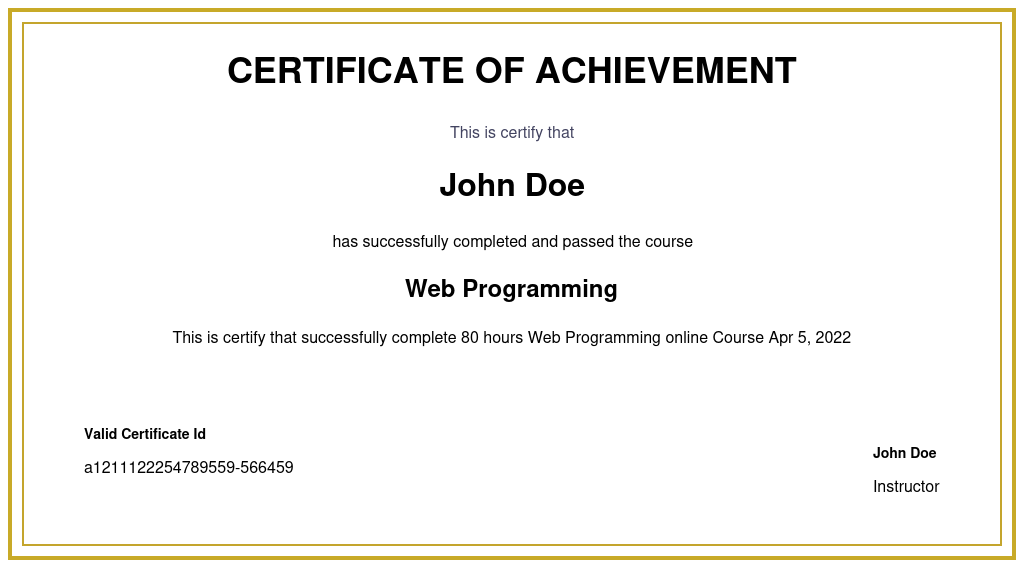
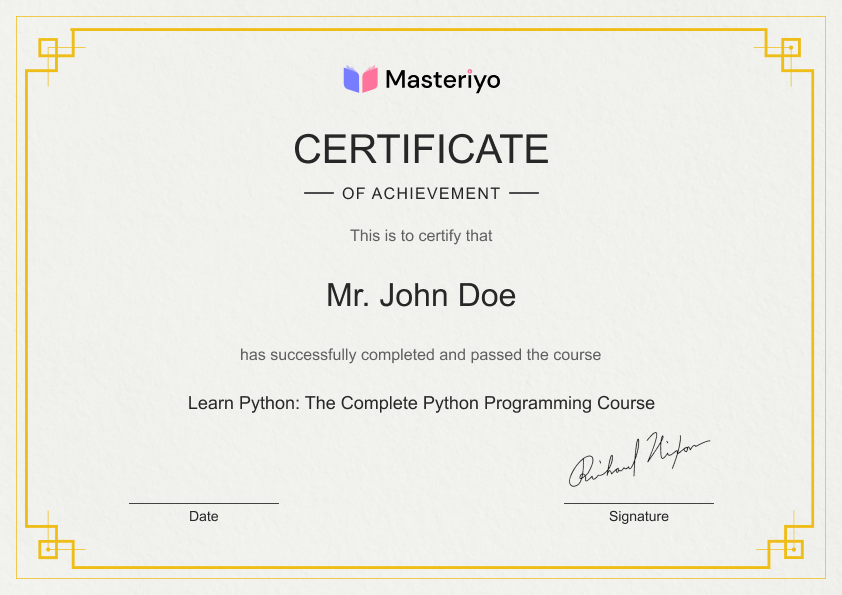
Template refinement

diff --git a/samples/simple-one/content.html b/samples/simple-one/content.html
@@ -1,24 +1,81 @@
-<!-- wp:masteriyo/certificate {"blockCSS":"","backgroundImageURL":"{{masteriyo_landscape_background_image_url}}","backgroundImageID":{{masteriyo_landscape_background_image_id}},"containerWidth":{"value":85,"unit":"%"},"paddingTop":{"value":90,"unit":"px"},"pageSize":"Letter","pageOrientation":"L"} -->
+<!-- wp:masteriyo/certificate {"backgroundImageURL":"{{masteriyo_a4_portrait_background_image_url}}","backgroundImageID":{{masteriyo_portrait_background_image_id}},"containerWidth":{"value":80,"unit":"%"},"paddingTop":{"value":100,"unit":"px"},"pageSize":"A4","pageOrientation":"P"} -->
 <div id="certificate" class="certificate">
 	<div class="certificate-content-wrapper">
-		<!-- wp:paragraph {"align":"center","fontSize":"large"} -->
-		<p class="has-text-align-center has-large-font-size"><strong>CERTIFICATE OF COMPLETION</strong></p>
-		<!-- /wp:paragraph -->
-
-		<!-- wp:spacer {"height":"40px"} -->
-		<div style="height:40px" aria-hidden="true" class="wp-block-spacer"></div>
+		<!-- wp:spacer {"height":"80px"} -->
+		<div style="height:80px" aria-hidden="true" class="wp-block-spacer"></div>
 		<!-- /wp:spacer -->
 
-		<!-- wp:paragraph {"align":"center"} -->
-		<p class="has-text-align-center">This certificate is proudly presented to</p>
-		<!-- /wp:paragraph -->
+		<!-- wp:columns -->
+		<div class="wp-block-columns">
+			<!-- wp:column {"width":"25%"} -->
+			<div class="wp-block-column" style="flex-basis:25%"></div>
+			<!-- /wp:column -->
 
-		<!-- wp:spacer {"height":"40px"} -->
-		<div style="height:40px" aria-hidden="true" class="wp-block-spacer"></div>
+			<!-- wp:column {"verticalAlignment":"center","width":"50%"} -->
+			<div class="wp-block-column is-vertically-aligned-center" style="flex-basis:50%">
+				<!-- wp:image {"align":"center","id":610,"width":158,"height":30,"sizeSlug":"full","linkDestination":"none"} -->
+				<figure class="wp-block-image aligncenter size-full is-resized"><img
+						src="https://masteriyo.test/wp-content/uploads/2022/09/masteriy-logo-1.png" alt=""
+						class="wp-image-610" width="158" height="30" /></figure>
+				<!-- /wp:image -->
+			</div>
+			<!-- /wp:column -->
+
+			<!-- wp:column {"width":"25%"} -->
+			<div class="wp-block-column" style="flex-basis:25%"></div>
+			<!-- /wp:column -->
+		</div>
+		<!-- /wp:columns -->
+
+		<!-- wp:spacer {"height":"24px"} -->
+		<div style="height:24px" aria-hidden="true" class="wp-block-spacer"></div>
 		<!-- /wp:spacer -->
 
-		<!-- wp:masteriyo/student-name {"clientId":"bea2edb3","blockCSS":".masteriyo-student-name-block\u002d\u002dbea2edb3 { text-align: center; }\n.masteriyo-student-name-block\u002d\u002dbea2edb3 { font-size: 40px; }\n.masteriyo-student-name-block\u002d\u002dbea2edb3 { color: #000000; }","alignment":"center","fontSize":{"value":40,"unit":"px"},"textColor":"#000000"} -->
-		<div class="wp-block-masteriyo-student-name masteriyo-student-name-block--bea2edb3">{{masteriyo_student_name}}
+		<!-- wp:paragraph {"align":"center","style":{"typography":{"fontSize":"60px","letterSpacing":"-0.4%","fontStyle":"normal","fontWeight":"500","textTransform":"uppercase"},"color":{"text":"#272727"}}} -->
+		<p class="has-text-align-center has-text-color"
+			style="color:#272727;font-size:60px;font-style:normal;font-weight:500;text-transform:uppercase;letter-spacing:-0.4%">
+			Certificate</p>
+		<!-- /wp:paragraph -->
+
+		<!-- wp:spacer {"height":"4px"} -->
+		<div style="height:4px" aria-hidden="true" class="wp-block-spacer"></div>
+		<!-- /wp:spacer -->
+
+		<!-- wp:columns {"verticalAlignment":"center"} -->
+		<div class="wp-block-columns are-vertically-aligned-center">
+			<!-- wp:column {"verticalAlignment":"center","width":"25%"} -->
+			<div class="wp-block-column is-vertically-aligned-center" style="flex-basis:25%"></div>
+			<!-- /wp:column -->
+
+			<!-- wp:column {"verticalAlignment":"center","width":"50%"} -->
+			<div class="wp-block-column is-vertically-aligned-center" style="flex-basis:50%">
+				<!-- wp:paragraph {"align":"center","style":{"typography":{"textTransform":"uppercase","letterSpacing":"5px"},"color":{"text":"#272727"}},"fontSize":"medium"} -->
+				<p class="has-text-align-center has-text-color has-medium-font-size"
+					style="color:#272727;text-transform:uppercase;letter-spacing:5px">of achievement</p>
+				<!-- /wp:paragraph -->
+			</div>
+			<!-- /wp:column -->
+
+			<!-- wp:column {"verticalAlignment":"center","width":"25%"} -->
+			<div class="wp-block-column is-vertically-aligned-center" style="flex-basis:25%"></div>
+			<!-- /wp:column -->
+		</div>
+		<!-- /wp:columns -->
+
+		<!-- wp:spacer {"height":"32px"} -->
+		<div style="height:32px" aria-hidden="true" class="wp-block-spacer"></div>
+		<!-- /wp:spacer -->
+
+		<!-- wp:paragraph {"align":"center","style":{"color":{"text":"#606060"}}} -->
+		<p class="has-text-align-center has-text-color" style="color:#606060">This is to certify that</p>
+		<!-- /wp:paragraph -->
+
+		<!-- wp:spacer {"height":"32px"} -->
+		<div style="height:32px" aria-hidden="true" class="wp-block-spacer"></div>
+		<!-- /wp:spacer -->
+
+		<!-- wp:masteriyo/student-name {"clientId":"48fd1b40","blockCSS":".masteriyo-student-name-block\u002d\u002d48fd1b40 { text-align: center; }\n.masteriyo-student-name-block\u002d\u002d48fd1b40 { font-size: 42px; }\n.masteriyo-student-name-block\u002d\u002d48fd1b40 { color: #272727; }","alignment":"center","fontSize":{"value":42,"unit":"px"},"textColor":"#272727"} -->
+		<div class="wp-block-masteriyo-student-name masteriyo-student-name-block--48fd1b40">{{masteriyo_student_name}}
 		</div>
 		<!-- /wp:masteriyo/student-name -->
 
@@ -26,41 +83,76 @@
 		<div style="height:40px" aria-hidden="true" class="wp-block-spacer"></div>
 		<!-- /wp:spacer -->
 
-		<!-- wp:paragraph {"align":"center","fontSize":"medium"} -->
-		<p class="has-text-align-center has-medium-font-size">for the successful completion of the course</p>
+		<!-- wp:paragraph {"align":"center","style":{"color":{"text":"#606060"}}} -->
+		<p class="has-text-align-center has-text-color" style="color:#606060">has successfully completed and passed the
+			course</p>
 		<!-- /wp:paragraph -->
 
 		<!-- wp:spacer {"height":"40px"} -->
 		<div style="height:40px" aria-hidden="true" class="wp-block-spacer"></div>
 		<!-- /wp:spacer -->
 
-		<!-- wp:masteriyo/course-title {"clientId":"5e96fc07","blockCSS":".masteriyo-course-title-block\u002d\u002d5e96fc07 { text-align: center; }\n.masteriyo-course-title-block\u002d\u002d5e96fc07 { font-size: 40px; }\n.masteriyo-course-title-block\u002d\u002d5e96fc07 { color: #000000; }","alignment":"center","fontSize":{"value":40,"unit":"px"},"textColor":"#000000"} -->
-		<div class="wp-block-masteriyo-course-title masteriyo-course-title-block--5e96fc07">{{masteriyo_course_title}}
+		<!-- wp:masteriyo/course-title {"clientId":"b6454285","blockCSS":".masteriyo-course-title-block\u002d\u002db6454285 { text-align: center; }\n.masteriyo-course-title-block\u002d\u002db6454285 { font-size: 24px; }\n.masteriyo-course-title-block\u002d\u002db6454285 { color: #272727; }","alignment":"center","fontSize":{"value":24,"unit":"px"},"textColor":"#272727"} -->
+		<div class="wp-block-masteriyo-course-title masteriyo-course-title-block--b6454285">{{masteriyo_course_title}}
 		</div>
 		<!-- /wp:masteriyo/course-title -->
 
-		<!-- wp:spacer {"height":"223px"} -->
-		<div style="height:223px" aria-hidden="true" class="wp-block-spacer"></div>
+		<!-- wp:spacer {"height":"285px"} -->
+		<div style="height:285px" aria-hidden="true" class="wp-block-spacer"></div>
 		<!-- /wp:spacer -->
 
 		<!-- wp:columns -->
 		<div class="wp-block-columns">
-			<!-- wp:column {"width":"66.66%"} -->
-			<div class="wp-block-column" style="flex-basis:66.66%"></div>
+			<!-- wp:column {"width":"35%"} -->
+			<div class="wp-block-column" style="flex-basis:35%">
+				<!-- wp:separator {"style":{"color":{"background":"#434343"}},"className":"is-style-wide"} -->
+				<hr class="wp-block-separator has-text-color has-alpha-channel-opacity has-background is-style-wide"
+					style="background-color:#434343;color:#434343" />
+				<!-- /wp:separator -->
+			</div>
 			<!-- /wp:column -->
 
-			<!-- wp:column {"width":"33.33%"} -->
-			<div class="wp-block-column" style="flex-basis:33.33%">
-				<!-- wp:paragraph {"align":"right","fontSize":"medium"} -->
-				<p class="has-text-align-right has-medium-font-size"><strong>John Doe</strong></p>
-				<!-- /wp:paragraph -->
+			<!-- wp:column {"width":"30%"} -->
+			<div class="wp-block-column" style="flex-basis:30%"></div>
+			<!-- /wp:column -->
 
-				<!-- wp:spacer {"height":"14px"} -->
-				<div style="height:14px" aria-hidden="true" class="wp-block-spacer"></div>
+			<!-- wp:column {"width":"35%"} -->
+			<div class="wp-block-column" style="flex-basis:35%">
+				<!-- wp:separator {"style":{"color":{"background":"#434343"}},"className":"is-style-wide"} -->
+				<hr class="wp-block-separator has-text-color has-alpha-channel-opacity has-background is-style-wide"
+					style="background-color:#434343;color:#434343" />
+				<!-- /wp:separator -->
+			</div>
+			<!-- /wp:column -->
+		</div>
+		<!-- /wp:columns -->
+
+		<!-- wp:columns {"verticalAlignment":"center"} -->
+		<div class="wp-block-columns are-vertically-aligned-center">
+			<!-- wp:column {"verticalAlignment":"center","width":"35%"} -->
+			<div class="wp-block-column is-vertically-aligned-center" style="flex-basis:35%">
+				<!-- wp:spacer {"height":"8px"} -->
+				<div style="height:8px" aria-hidden="true" class="wp-block-spacer"></div>
 				<!-- /wp:spacer -->
 
-				<!-- wp:paragraph {"align":"right","fontSize":"medium"} -->
-				<p class="has-text-align-right has-medium-font-size">Instructor</p>
+				<!-- wp:paragraph {"align":"center","style":{"color":{"text":"#272727"}}} -->
+				<p class="has-text-align-center has-text-color" style="color:#272727">Date</p>
+				<!-- /wp:paragraph -->
+			</div>
+			<!-- /wp:column -->
+
+			<!-- wp:column {"verticalAlignment":"center","width":"30%"} -->
+			<div class="wp-block-column is-vertically-aligned-center" style="flex-basis:30%"></div>
+			<!-- /wp:column -->
+
+			<!-- wp:column {"verticalAlignment":"center","width":"35%"} -->
+			<div class="wp-block-column is-vertically-aligned-center" style="flex-basis:35%">
+				<!-- wp:spacer {"height":"8px"} -->
+				<div style="height:8px" aria-hidden="true" class="wp-block-spacer"></div>
+				<!-- /wp:spacer -->
+
+				<!-- wp:paragraph {"align":"center","style":{"color":{"text":"#272727"}}} -->
+				<p class="has-text-align-center has-text-color" style="color:#272727">Signature</p>
 				<!-- /wp:paragraph -->
 			</div>
 			<!-- /wp:column -->

diff --git a/create_json.php b/create_json.php
@@ -30,8 +30,6 @@ $samples_arr = [];
 foreach( $samples_directories as $dir_name ) {
     $title = dirname(__FILE__) . "/samples/{$dir_name}/title.txt";
     $html = dirname(__FILE__) . "/samples/{$dir_name}/content.html";
-    $bg_image_landscape = "{$raw_github_url}/samples/{$dir_name}/background-image-landscape.png";
-    $bg_image_portrait = "{$raw_github_url}/samples/{$dir_name}/background-image-portrait.png";
 
     if (! ( is_readable($html)  && is_readable($html) && is_readable($title) ) ) {
         continue;
@@ -40,8 +38,10 @@ foreach( $samples_directories as $dir_name ) {
     $samples_arr[] = array(
         'id' => $dir_name,
         'title' => trim(file_get_contents($title)),
-        'backgroundImageLandscape' => $bg_image_landscape,
-        'backgroundImagePortrait' => $bg_image_portrait,
+        'backgroundImageA4Landscape' => "{$raw_github_url}/samples/{$dir_name}/background-image-a4-landscape.png",
+        'backgroundImageA4Portrait' => "{$raw_github_url}/samples/{$dir_name}/background-image-a4-portrait.png",
+        'backgroundImageLetterLandscape' => "{$raw_github_url}/samples/{$dir_name}/background-image-letter-landscape.png",
+        'backgroundImageLetterPortrait' => "{$raw_github_url}/samples/{$dir_name}/background-image-letter-portrait.png",
         'html' => file_get_contents($html),
     );
 }
